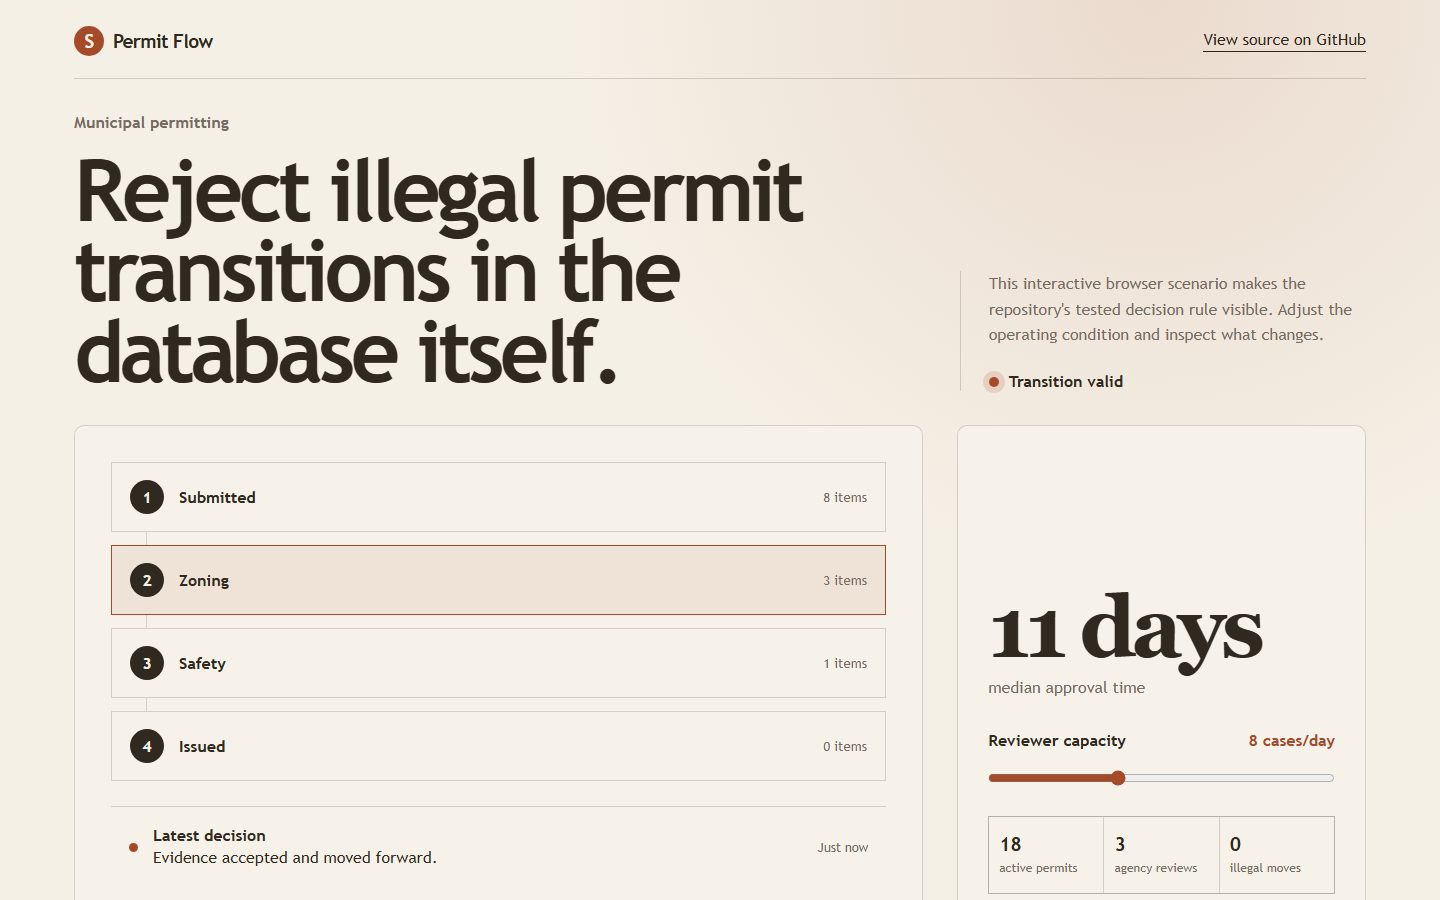
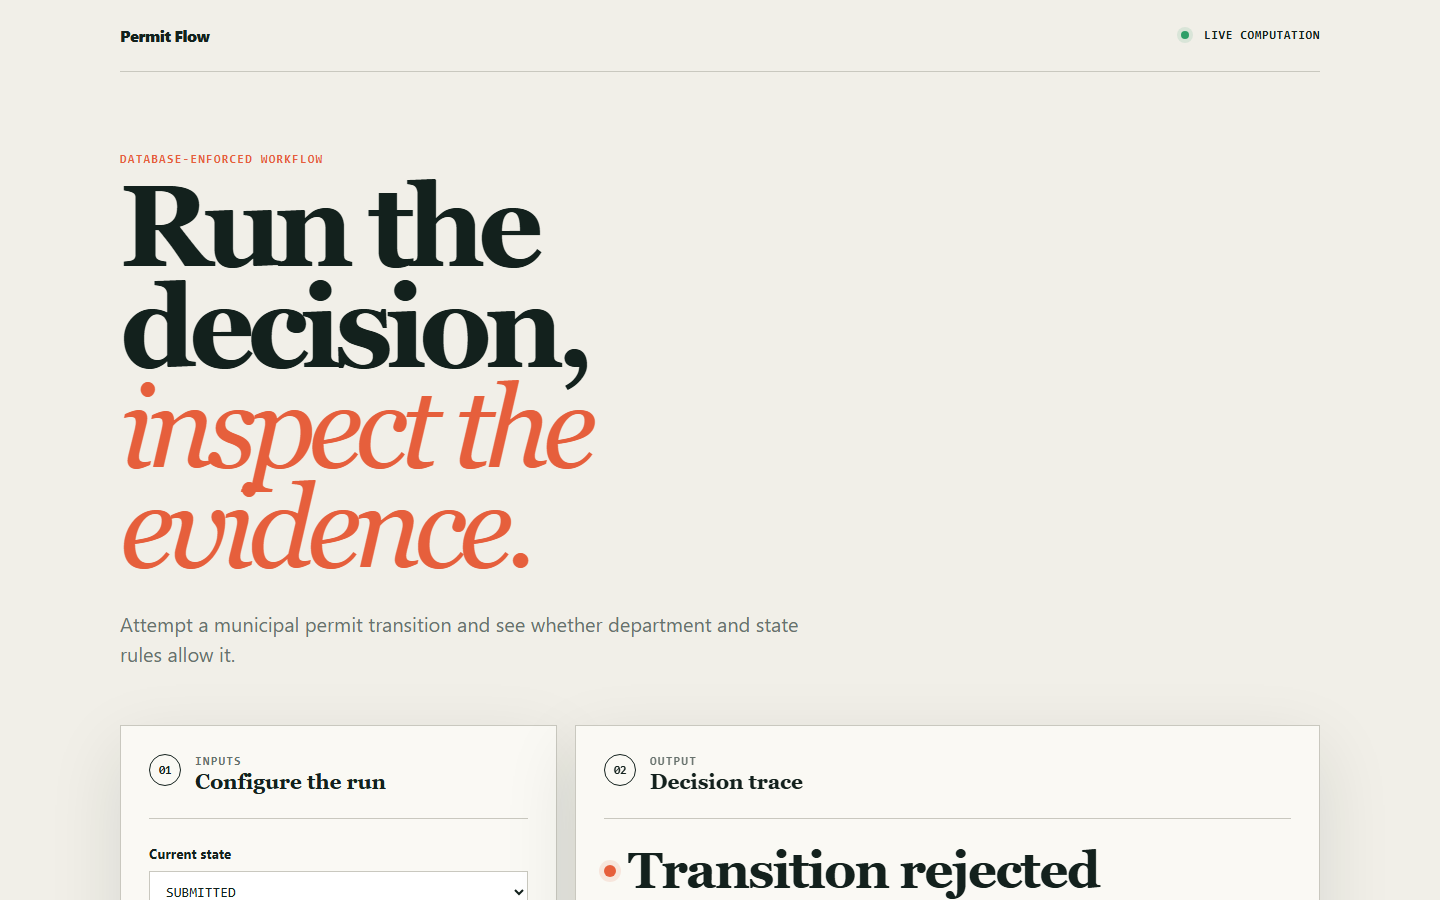
docs: show working deployed application

diff --git a/README.md b/README.md
@@ -6,9 +6,9 @@
 
 [![CI and deployment](https://github.com/SlateGitOrg/permitflow/actions/workflows/ci.yml/badge.svg?branch=main)](https://github.com/SlateGitOrg/permitflow/actions/workflows/ci.yml)
 
-[Open the interactive Permit Flow demo](https://slategitorg.github.io/permitflow/)
+[Open the working Permit Flow application](https://slategitorg.github.io/permitflow/)
 
-The deployed interface uses a deterministic offline scenario to make the repository's tested decision rule visible without external services or private data.
+This deployed application runs the project's decision workflow in the browser. Change the inputs, run the analysis, and inspect the computed metrics and decision trace.
 
 ### Desktop
 
